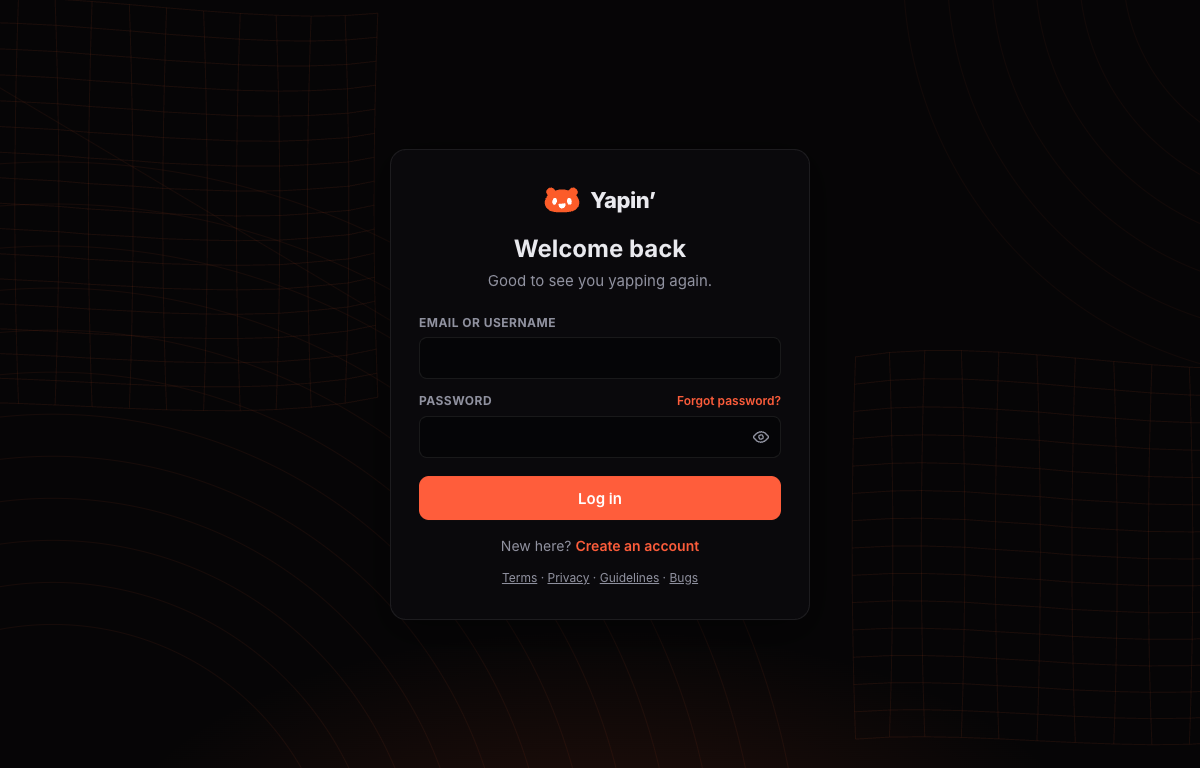
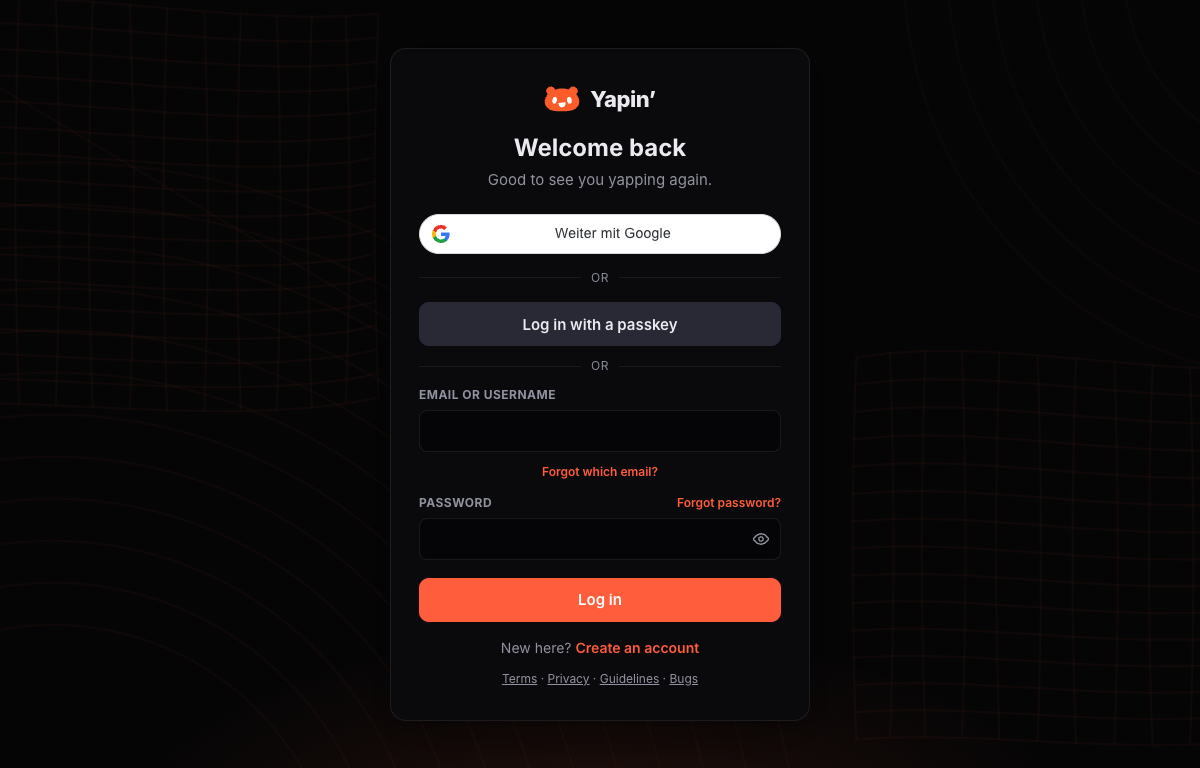
Record passing iOS integration tests and verified release checksums

diff --git a/docs/VALIDATION.md b/docs/VALIDATION.md
@@ -17,7 +17,12 @@ Machine-readable checks and scope are in [`reports/`](reports/). Build instructi
 - 12 JavaScript bridge tests passed, including origins/ports, malformed inputs, native rejections, and unavailable desktop features.
 - Release iOS Simulator application compiled for arm64/x86_64.
 - Generic iPhone/iPad Release archive compiled for arm64 and packaged as an unsigned IPA without a provisioning profile.
-- Swift unit/hosted WebKit and login UI checks are included. Their local execution is still being verified after an iOS 27.2 simulator launch-service stall; this record does **not** mark them passed yet. The public iOS workflow reports its actual result without converting service/runtime failures into passes.
+- Swift unit/hosted WebKit and original-login UI checks passed on an iPhone 17 Pro simulator with iOS 26.4.1: **30 passing case executions across 8 test functions**, no failures/skips/runtime warnings. This includes a real WKWebView-to-native settings roundtrip and truthful refusals for badges without consent and unsupported hotkeys.
+- The iOS 27.2 simulator initially stalled before test launch. That attempt was not counted as a pass; the same app sources were verified on the stable runtime instead.
+
+## GitHub-hosted CI status
+
+The initial GitHub-hosted jobs did not start because of an account-level restriction. Their status is visible in Actions. The recorded passing results above are **local results**; this repository does not claim a green GitHub-hosted CI run. Workflow definitions remain available so maintainers can run them when the account allows execution.
 
 ## Not exercised
 

diff --git a/README.md b/README.md
@@ -39,6 +39,8 @@ Reviewers can inspect and reproduce:
 - CI source checks, dependency-advisory reports, packaged native-binary architecture checks, code-signature verification, and SHA-256 release checksums.
 - The [security review and limitations](docs/SECURITY-REVIEW.md), [iOS review](docs/IOS-REVIEW.md), and [recorded validation](docs/VALIDATION.md).
 
+Recorded local results: 17 Mac regression tests, 16 package checks per architecture, 10 live Mac checks, 12 iOS bridge tests, and 30 Swift/UI test case executions passed. The full npm audit reported 0 known advisories on 2026-10-30 after the runtime update. GitHub-hosted jobs did not start because of an account-level restriction; these are local results, not a claim of green hosted CI. Anonymous UI screenshots: [macOS](docs/images/macos-login.png), [iOS](docs/images/ios-login.png).
+
 The source does not add a remote shell/command-execution bridge, credential-export endpoint, or arbitrary native file-reading API. That statement is limited to the inspected client code, not a claim about every dependency, remote page, or future revision.
 
 ### Native permissions and data

diff --git a/ios/README.md b/ios/README.md
@@ -37,4 +37,6 @@ This is not a full desktop-runtime clone. Screen capture/sharing, system-audio c
 
 The UI and account backend are remotely hosted by Yapper and can change without rebuilding this app. Simulator tests do not validate physical-device microphone/camera quality, background calling, notification delivery, or distribution signing. The unsigned IPA is not an App Store/TestFlight publication.
 
+Email/username login uses the original web form. Google/external OAuth login has not been authenticated in this build; third-party restrictions or separate browser cookie stores may prevent it from returning a signed-in session to the app.
+
 See the repository's provenance, security review, and validation records for the exact scope of testing. No “malware-free” certification is claimed.
